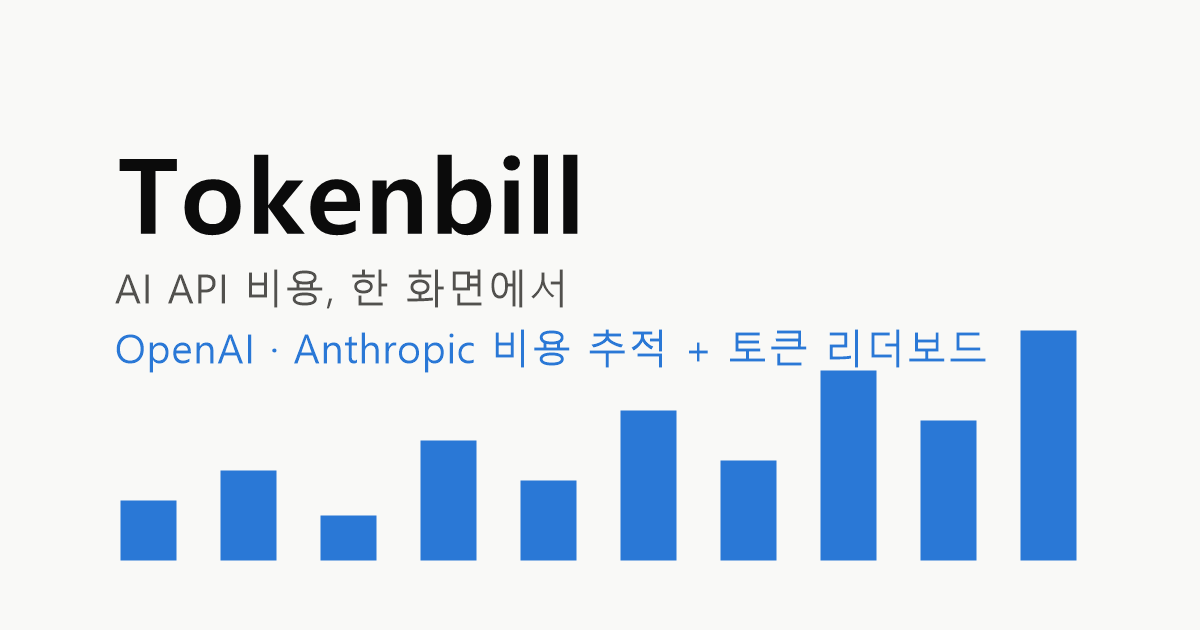
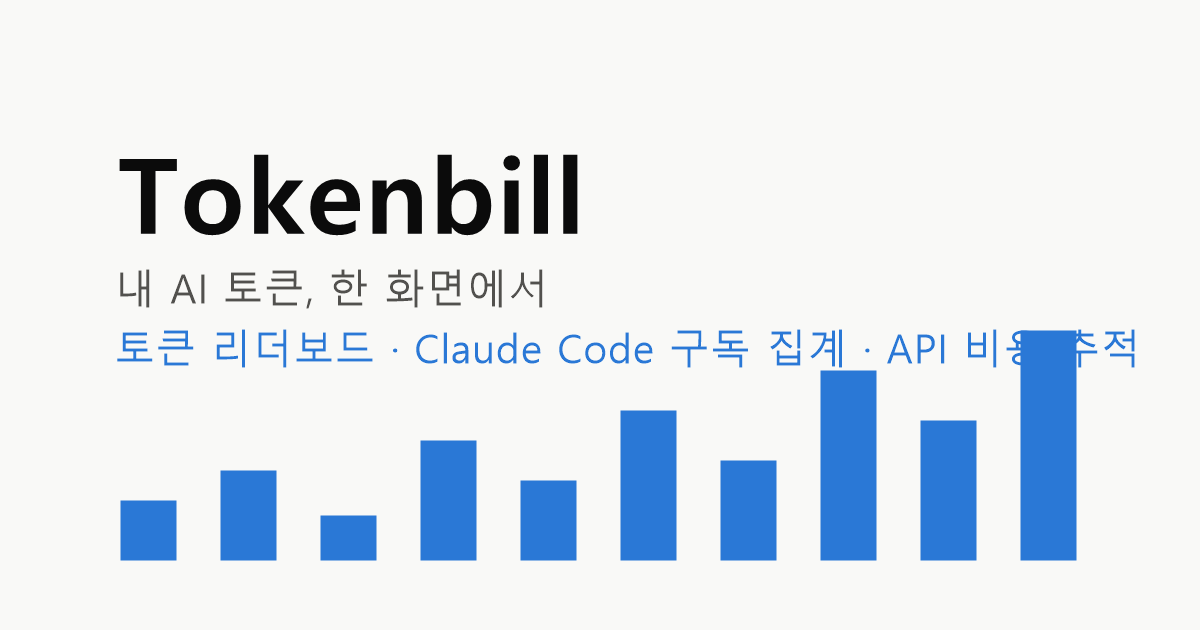
토큰 중심 전환: 히어로 타일·어제 타일 토큰 기준, 차트 기본값 토큰, 태그라인 '내 AI 토큰, 한 화면에서'
- 히어로: 이번 달 토큰(API/구독 분해), 비용은 보조 타일(월말 예상 병기)
- 어제 타일·평균 대비 증감을 토큰 기준으로
- 일별·모델별 차트 기본 보기 토큰 (비용 토글 유지)
- 타이틀·OG·메타·로그인 문구 전면 교체, og.png 재생성

Changed region(s): [[0.0925, 0.5127, 0.8633, 0.6032], [0.0925, 0.4222, 0.4933, 0.4825], [0.8942, 0.5127, 0.9558, 0.573]]

diff --git a/static/index.html b/static/index.html
@@ -3,10 +3,10 @@
 <head>
 <meta charset="utf-8">
 <meta name="viewport" content="width=device-width, initial-scale=1">
-<title>Tokenbill — AI API 비용 대시보드</title>
-<meta name="description" content="OpenAI·Anthropic API 비용과 토큰을 한 화면에서. 프로젝트·모델별 분석과 토큰 리더보드까지.">
-<meta property="og:title" content="Tokenbill — AI API 비용 대시보드">
-<meta property="og:description" content="OpenAI·Anthropic API 비용과 토큰을 한 화면에서. 프로젝트·모델별 분석과 토큰 리더보드까지.">
+<title>Tokenbill — 내 AI 토큰 대시보드</title>
+<meta name="description" content="내 AI 토큰, 한 화면에서. Claude Code·Codex·Gemini 구독 토큰과 OpenAI·Anthropic API 사용량을 모아 리더보드에서 경쟁까지.">
+<meta property="og:title" content="Tokenbill — 내 AI 토큰 대시보드">
+<meta property="og:description" content="내 AI 토큰, 한 화면에서. Claude Code·Codex·Gemini 구독 토큰과 OpenAI·Anthropic API 사용량을 모아 리더보드에서 경쟁까지.">
 <meta property="og:url" content="https://tokenbill.my">
 <meta property="og:type" content="website">
 <meta property="og:image" content="https://tokenbill.my/static/og.png">
@@ -187,7 +187,7 @@
   <div class="auth-wrap">
   <div class="auth-card">
     <h1>Token<span class="won">bill</span></h1>
-    <p class="tag">AI API 비용, 한 화면에서</p>
+    <p class="tag">내 AI 토큰, 한 화면에서</p>
     <div class="auth-tabs">
       <button id="tabLogin" class="on">로그인</button>
       <button id="tabSignup">회원가입</button>
@@ -218,7 +218,7 @@
   <header class="top">
     <div class="brand">
       <h1>Token<span class="won">bill</span></h1>
-      <span class="tag">AI API 비용, 한 화면에서</span>
+      <span class="tag">내 AI 토큰, 한 화면에서</span>
     </div>
     <div class="hdr-ctls">
       <span class="cur-toggle" role="group" aria-label="표시 통화">
@@ -243,19 +243,19 @@
 
   <div class="band">
     <div class="tile hero">
-      <span class="lbl" id="tTotalLbl">이번 달 총 비용</span>
+      <span class="lbl" id="tTotalLbl">이번 달 토큰</span>
       <span class="val" id="tTotal">—</span>
       <span class="sub" id="tTotalSub">&nbsp;</span>
     </div>
     <div class="tile">
-      <span class="lbl">어제</span>
+      <span class="lbl">어제 토큰</span>
       <span class="val" id="tYesterday">—</span>
       <span class="sub" id="tYesterdaySub">&nbsp;</span>
     </div>
     <div class="tile">
-      <span class="lbl" id="tProjLbl">월말 예상</span>
+      <span class="lbl" id="tProjLbl">비용 · ✅ API</span>
       <span class="val" id="tProjected">—</span>
-      <span class="sub" id="tProjSub">최근 7일 평균 기준</span>
+      <span class="sub" id="tProjSub">&nbsp;</span>
     </div>
     <div class="tile">
       <span class="lbl">예산 대비</span>
@@ -270,7 +270,7 @@
       <section class="card">
         <h2>일별 사용량 — ✅ API <span class="cnt">선택한 달</span>
           <span class="cur-toggle" role="group" aria-label="일별 보기 기준" style="margin-left:auto">
-            <button id="dvCost" class="on">비용</button><button id="dvTok">토큰</button>
+            <button id="dvTok" class="on">토큰</button><button id="dvCost">비용</button>
           </span>
         </h2>
         <div class="legend" id="dailyLegend"></div>
@@ -285,7 +285,7 @@
       <section class="card">
         <h2>모델별 사용량 — ✅ API <span class="cnt">이번 달</span>
           <span class="cur-toggle" role="group" aria-label="모델별 보기 기준" style="margin-left:auto">
-            <button id="mvCost" class="on">비용</button><button id="mvTok">토큰</button>
+            <button id="mvTok" class="on">토큰</button><button id="mvCost">비용</button>
           </span>
         </h2>
         <div id="modelChart"></div>
@@ -477,8 +477,8 @@
 
   // 서버 데이터 캐시
   var me = null, providers = [], daily = [], modelRows = [], breakdown = [], lb = null, aiStats = null;
-  var modelView = "cost";
-  var dailyView = "cost";
+  var modelView = "tok";
+  var dailyView = "tok";
   var lbTrack = "api";  // api(프로바이더 검증) | sub(구독)
   function curMonth() { return iso(new Date()).slice(0, 7); }
   var viewMonth = null;  // 로드 후 curMonth()로 초기화 (iso 정의 이후 사용)
@@ -807,12 +807,12 @@
     });
     return map;
   }
-  function sumRange(map, fromOffset, toOffset) {
+  function sumRange(map, fromOffset, toOffset, key) {
     var t = 0, today = new Date();
     for (var i = fromOffset; i >= toOffset; i--) {
       var d = new Date(today.getFullYear(), today.getMonth(), today.getDate() - i);
       var rec = map[iso(d)];
-      if (rec) for (var pid in rec) t += rec[pid].cost;
+      if (rec) for (var pid in rec) t += rec[pid][key || "cost"];
     }
     return t;
   }
@@ -850,29 +850,32 @@
     var pm = monthPrefix().split("-");
     $("mLabel").textContent = pm[0] + "년 " + Number(pm[1]) + "월" + (isCur ? " · 이번 달" : "");
     $("mNext").disabled = isCur;
-    $("tTotalLbl").textContent = isCur ? "이번 달 총 비용" : Number(pm[1]) + "월 총 비용";
-    $("tProjLbl").textContent = isCur ? "월말 예상" : "월 합계";
-    $("tProjSub").textContent = isCur ? "최근 7일 평균 기준" : "해당 달 실적";
+    $("tTotalLbl").textContent = isCur ? "이번 달 토큰" : Number(pm[1]) + "월 토큰";
+    $("tProjLbl").textContent = (isCur ? "이번 달" : Number(pm[1]) + "월") + " 비용 · ✅ API";
 
     var yesterday = isCur ? sumRange(map, 1, 1) : 0;
     var prior7 = isCur ? sumRange(map, 8, 2) / 7 : 0;
     var last7avg = isCur ? sumRange(map, 7, 1) / 7 : 0;
+    var yestTok = isCur ? sumRange(map, 1, 1, "tok") : 0;
+    var prior7Tok = isCur ? sumRange(map, 8, 2, "tok") / 7 : 0;
     var today = new Date();
     var daysLeft = new Date(today.getFullYear(), today.getMonth() + 1, 0).getDate() - today.getDate();
     var projected = isCur ? monthTotal + last7avg * daysLeft : monthTotal;
 
-    $("tTotal").textContent = active.length ? fmt(monthTotal) : "—";
+    $("tTotal").textContent = active.length ? fmtTok(monthTok) + " tok" : "—";
     $("tTotalSub").textContent = active.length
-      ? "✅ API " + fmtTok(monthTokApi) + " tok · 🖥 구독 " + fmtTok(monthTokSub) + " tok"
+      ? "✅ API " + fmtTok(monthTokApi) + " · 🖥 구독 " + fmtTok(monthTokSub)
       : "프로바이더를 연결해 보세요";
-    $("tYesterday").textContent = active.length && isCur ? fmt(yesterday) : "—";
-    var diff = prior7 > 0 ? (yesterday - prior7) / prior7 : 0;
+    $("tYesterday").textContent = active.length && isCur ? fmtTok(yestTok) + " tok" : "—";
+    var diff = prior7Tok > 0 ? (yestTok - prior7Tok) / prior7Tok : 0;
     var ySub = $("tYesterdaySub");
     if (!active.length || !isCur) { ySub.textContent = " "; ySub.className = "sub"; }
     else if (Math.abs(diff) < 0.15) { ySub.textContent = "7일 평균과 비슷"; ySub.className = "sub"; }
     else if (diff > 0) { ySub.textContent = "▲ 평균 대비 +" + Math.round(diff * 100) + "%"; ySub.className = "sub up"; }
     else { ySub.textContent = "▼ 평균 대비 " + Math.round(diff * 100) + "%"; ySub.className = "sub down"; }
-    $("tProjected").textContent = active.length ? fmt(projected) : "—";
+    $("tProjected").textContent = active.length ? fmt(monthTotal) : "—";
+    $("tProjSub").textContent = active.length
+      ? (isCur ? "월말 예상 " + fmt(projected) + " · 7일 평균 기준" : "해당 달 실적") : " ";
 
     var pct = me.budget_usd > 0 ? (monthTotal / me.budget_usd) * 100 : 0;
     $("tBudget").textContent = active.length && me.budget_usd > 0 ? Math.round(pct) + "%" : "—";
